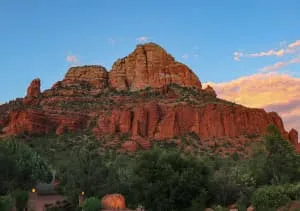
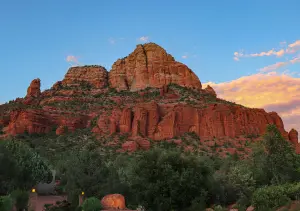
deploy: 07bdedab660cefaba6e4f6591fe39ad6d8403a99

diff --git a/catalog.html b/catalog.html
@@ -1,1 +1,1 @@
-<!DOCTYPE html><html class="page" lang="ru"><head><meta charset="utf-8"><meta name="viewport" content="width=device-width, initial-scale=1.0"><title>Sedona</title><link rel="stylesheet" href="styles/style.min.css"></head><body class="page__body"><div class="container"><header class="page-header"><a class="page-header__logo" href="index.html"> <img src="../images/logo.svg" width="139" height="70" alt="Логотип сайта Sedona"> </a><nav class="main-nav page-header__nav"><ul class="nav-list"><li class="nav-list__item"><a class="nav-list__link nav-list__link--current" href="index.html">Главная</a></li><li class="nav-list__item"><a class="nav-list__link" href="#!">О Седоне</a></li><li class="nav-list__item"><a class="nav-list__link">Гостиницы</a></li></ul><div class="page-header__links"><a class="link-search" href="#!"><span class="visually-hidden">Поиск</span></a> <a class="link-favorites" href="#!"><span class="visually-hidden">Избранное</span></a> <a class="button link-wish" href="#!">Хочу сюда</a></div></nav></header><main class="main-catalog"><h1 class="main-catalog__heading">Гостиницы Седоны</h1><ul class="bread-crumbs"><li></li><li><a class="bread-crumbs__link">Гостиницы</a></li></ul><form class="main-catalog__form" method="post" action="echo.htmlacademy.ru"><fieldset><legend class="main-catalog__legend">Инфраструктура:</legend><label><input type="checkbox" name="pool"> Бассейн</label> <label><input type="checkbox" name="parking"> Парковка</label> <label><input type="checkbox" name="wifi"> Wi-Fi</label></fieldset><fieldset><legend class="main-catalog__legend">Тип Жилья:</legend><input type="radio" name="housing"> Гостиница <input type="radio" name="housing"> Мотель <input type="radio" name="housing"> Апартаменты</fieldset><div class="price"></div><button type="submit">Применить</button> <button type="reset">Сбросить</button></form><section class="main-catalog__info"><h2 class="main-catalog__lead">Найдено гостиниц: 38</h2><select><option>Сначало дешевые</option></select><ul class="result-list"><li class="result-list__item"><img src="../images/hotel-1.jpg" width="300" height="211" alt="Гостиница Amara Resort &amp; Spa"><h3 class="result-list__heading">Amara Resort &amp; Spa</h3><span class="result-list__about">Гостиница</span> <span class="result-list__price">От 4000 ₽</span> <a class="result-list__more" href="#">Подробнее</a> <a class="result-list__favourite" href="#">В избранное</a> <span class="result-list__stars"></span> <span class="result-list__rating">Рейтинг: 8,5</span></li><li class="result-list__item"><img src="../images/hotel-2.jpg" width="300" height="211" alt="Гостиница Villas at Poco Diablo"><h3 class="result-list__heading">Villas at Poco Diablo</h3><span class="result-list__about">Гостиница</span> <span class="result-list__price">От 5000 ₽</span> <a class="result-list__more" href="#">Подробнее</a> <a class="result-list__favourite" href="#">В избранном</a> <span class="result-list__stars"></span> <span class="result-list__rating">Рейтинг: 9,2</span></li><li class="result-list__item"><img src="../images/hotel-3.jpg" width="300" height="211" alt="Гостиница Desert Quail Inn"><h3 class="result-list__heading">Desert Quail Inn</h3><span class="result-list__about">Гостиница</span> <span class="result-list__price">От 2500 ₽</span> <a class="result-list__more" href="#">Подробнее</a> <a class="result-list__favourite" href="#">В избранное</a> <span class="result-list__stars"></span> <span class="result-list__rating">Рейтинг: 6,9</span></li><li class="result-list__item"><img src="../images/hotel-4.jpg" width="300" height="211" alt="Гостиница GreenTree Inn"><h3 class="result-list__heading">GreenTree Inn</h3><span class="result-list__about">Гостиница</span> <span class="result-list__price">От 1500 ₽</span> <a class="result-list__more" href="#">Подробнее</a> <a class="result-list__favourite" href="#">В избранное</a> <span class="result-list__stars"></span> <span class="result-list__rating">Рейтинг: 5,0</span></li></ul><ul class="pagination-list"><li class="pagination-list__item"><a class="pagination-list__link" href="#">1</a></li><li class="pagination-list__item"><a class="pagination-list__link" href="#">2</a></li><li class="pagination-list__item"><a class="pagination-list__link" href="#">3</a></li><li class="pagination-list__item"><a class="pagination-list__link" href="#">4</a></li><li class="pagination-list__item"><a class="pagination-list__link" href="#">...</a></li><li class="pagination-list__item"><a class="pagination-list__link" href="#">10</a></li></ul><div class="pagination-choise"><p class="pagination-choise__text">Гостиниц на странице:</p><select><option>4</option></select></div></section></main><footer class="page-footer"><div class="page-footer__mailing"><b class="page-footer__lead">Подпишитесь на рассылку</b><p class="page-footer__text">Только полезная информация и никакого спама, честное бойскаутское!</p><form class="page-footer__form" method="post"><input type="text" placeholder="Ваш e-mail"> <button class="button" type="submit">Подписаться</button></form></div><ul class="page-footer__social-list"><li class="page-footer__social-item"><a class="page-footer__social-link" href="#!"><span class="visually-hidden">Vk</span></a></li><li class="page-footer__social-item"><a class="page-footer__social-link" href="#!"><span class="visually-hidden">Telegram</span></a></li><li class="page-footer__social-item"><a class="page-footer__social-link" href="#!"><span class="visually-hidden">Youtube</span></a></li></ul><a class="page-footer__phone" href="tel:+78128121212">+7 (812) 812-12-12</a> <a class="page-footer__copyright" href="#!">Разработано <img src="#" alt=""> </a></footer></div></body></html>
+<!DOCTYPE html><html lang="ru"><head><meta charset="utf-8"><meta name="viewport" content="width=device-width, initial-scale=1.0"><title>Sedona</title><link href="styles/main.css" rel="stylesheet"></head><body><div class="container page"><header class="page-header"><a class="page-header__logo" href="index.html"> <img src="images/logo.svg" alt="Логотип сайта Sedona" width="139" height="70"> </a><nav class="main-nav page-header__nav"><ul class="nav-list"><li class="nav-list__item"><a class="nav-list__link nav-list__link--current" href="index.html">Главная</a></li><li class="nav-list__item"><a class="nav-list__link" href="#!">О Седоне</a></li><li class="nav-list__item"><a class="nav-list__link">Гостиницы</a></li></ul><div class="page-header__links"><a class="link-search" href="#!"> <span class="visually-hidden">Поиск</span> </a> <a class="link-favorites" href="#!"><span class="visually-hidden">Избранное</span> </a><a class="button link-wish" href="#!">Хочу сюда</a></div></nav></header><main class="main-catalog"><h1 class="main-catalog__heading">Гостиницы Седоны</h1><ul class="bread-crumbs"><li></li><li><a class="bread-crumbs__link">Гостиницы</a></li></ul><form class="main-catalog__form" method="post" action="echo.htmlacademy.ru"><fieldset><legend class="main-catalog__legend">Инфраструктура:</legend><label><input name="pool" type="checkbox"> Бассейн</label> <label><input name="parking" type="checkbox"> Парковка</label> <label><input name="wifi" type="checkbox"> Wi-Fi</label></fieldset><fieldset><legend class="main-catalog__legend">Тип Жилья:</legend><input name="housing" type="radio"> Гостиница <input name="housing" type="radio"> Мотель <input name="housing" type="radio"> Апартаменты</fieldset><div class="price"></div><button type="submit">Применить</button> <button type="reset">Сбросить</button></form><section class="main-catalog__info"><h2 class="main-catalog__lead">Найдено гостиниц: 38</h2><select><option>Сначало дешевые</option></select><ul class="result-list"><li class="result-list__item"><img src="images/hotel-1.webp" alt="Гостиница Amara Resort &amp; Spa" width="300" height="211"><h3 class="result-list__heading">Amara Resort &amp; Spa</h3><span class="result-list__about">Гостиница</span> <span class="result-list__price">От 4000 ₽</span> <a class="result-list__more" href="#">Подробнее</a> <a class="result-list__favourite" href="#">В избранное</a> <span class="result-list__stars"></span> <span class="result-list__rating">Рейтинг: 8,5</span></li><li class="result-list__item"><img src="images/hotel-2.webp" alt="Гостиница Villas at Poco Diablo" width="300" height="211"><h3 class="result-list__heading">Villas at Poco Diablo</h3><span class="result-list__about">Гостиница</span> <span class="result-list__price">От 5000 ₽</span> <a class="result-list__more" href="#">Подробнее</a> <a class="result-list__favourite" href="#">В избранном</a> <span class="result-list__stars"></span> <span class="result-list__rating">Рейтинг: 9,2</span></li><li class="result-list__item"><img src="images/hotel-3.webp" alt="Гостиница Desert Quail Inn" width="300" height="211"><h3 class="result-list__heading">Desert Quail Inn</h3><span class="result-list__about">Гостиница</span> <span class="result-list__price">От 2500 ₽</span> <a class="result-list__more" href="#">Подробнее</a> <a class="result-list__favourite" href="#">В избранное</a> <span class="result-list__stars"></span> <span class="result-list__rating">Рейтинг: 6,9</span></li><li class="result-list__item"><img src="images/hotel-4.webp" alt="Гостиница GreenTree Inn" width="300" height="211"><h3 class="result-list__heading">GreenTree Inn</h3><span class="result-list__about">Гостиница</span> <span class="result-list__price">От 1500 ₽</span> <a class="result-list__more" href="#">Подробнее</a> <a class="result-list__favourite" href="#">В избранное</a> <span class="result-list__stars"></span> <span class="result-list__rating">Рейтинг: 5,0</span></li></ul><ul class="pagination-list"><li class="pagination-list__item"><a class="pagination-list__link" href="#">1</a></li><li class="pagination-list__item"><a class="pagination-list__link" href="#">2</a></li><li class="pagination-list__item"><a class="pagination-list__link" href="#">3</a></li><li class="pagination-list__item"><a class="pagination-list__link" href="#">4</a></li><li class="pagination-list__item"><a class="pagination-list__link" href="#">...</a></li><li class="pagination-list__item"><a class="pagination-list__link" href="#">10</a></li></ul><div class="pagination-choise"><p class="pagination-choise__text">Гостиниц на странице:</p><select><option>4</option></select></div></section></main><footer class="page__footer page-footer"><div class="page-footer__mailing"><b class="page-footer__lead">Подпишитесь на рассылку</b><p class="page-footer__text">Только полезная информация и никакого спама, честное бойскаутское!</p><form class="page-footer__form" method="post"><input type="text" placeholder="Ваш e-mail"> <button class="button" type="submit">Подписаться</button></form></div><ul class="page-footer__social-list"><li class="page-footer__social-item"><a class="page-footer__social-link" href="#!"> <span class="visually-hidden">Vk</span> </a></li><li class="page-footer__social-item"><a class="page-footer__social-link" href="#!"> <span class="visually-hidden">Telegram</span> </a></li><li class="page-footer__social-item"><a class="page-footer__social-link" href="#!"> <span class="visually-hidden">Youtube</span> </a></li></ul><a class="page-footer__phone" href="tel:+78128121212">+7 (812) 812-12-12</a> <a class="page-footer__copyright" href="#!">Разработано <img src="images/logo-htmlacademy.svg" alt=""> </a></footer></div><script src="scripts/main.js"></script></body></html>

diff --git a/index.html b/index.html
@@ -1,1 +1,1 @@
-<!DOCTYPE html><html class="page" lang="ru"><head><meta charset="utf-8"><meta name="viewport" content="width=device-width, initial-scale=1.0"><title>Sedona</title><link rel="stylesheet" href="styles/style.min.css"></head><body class="page__body"><div class="container"><header class="page-header"><a class="page-header__logo"> <img src="../images/logo.svg" width="139" height="70" alt="Логотип сайта Sedona"> </a><nav class="main-nav page-header__nav"><ul class="nav-list"><li class="nav-list__item"><a class="nav-list__link nav-list__link--current">Главная</a></li><li class="nav-list__item"><a class="nav-list__link" href="#!">О Седоне</a></li><li class="nav-list__item"><a class="nav-list__link" href="catalog.html">Гостиницы</a></li></ul><div class="page-header__links"><a class="link-search" href="#!"><span class="visually-hidden">Поиск</span></a> <a class="link-favorites" href="#!"><span class="visually-hidden">Избранное</span></a> <a class="button link-wish" href="#!">Хочу сюда</a></div></nav></header><main class="page-main"><h1 class="visually-hidden">Sedona</h1><p class="page-main__lead">Седона — небольшой городок в Аризоне, заслуживающий большего!</p><p class="page-main__features">Рассмотрим 5 причин, по которым Седона круче, чем Гранд-Каньон!</p><ul class="main-list"><li class="main-list__item"><div class="main-list__wrapper"><h2 class="main-list__heading">Настоящий городок</h2><span class="main-list__number">№ 1</span><p class="main-list__text">Седона — не аттракцион для туристов, там течёт своя жизнь</p></div><img src="../images/bar.jpg" width="800" height="384" alt="Кафе в Седоне"><ul class="feature-list"><li class="feature-list__item"><h3 class="feature-list__heading">Жильё</h3><p class="feature-list__text">Рекомендуем пожить в настоящем мотеле, всё как в кино!</p></li><li class="feature-list__item"><h3 class="feature-list__heading">Еда</h3><p class="feature-list__text">Всегда заказывайте топовый фирменный бургер, вы не разочаруетесь!</p></li><li class="feature-list__item"><h3 class="feature-list__heading">Сувениры</h3><p class="feature-list__text">Не только китайского, но и настоящего местного производства!</p></li></ul></li><li class="page-main__item"><div class="main-list__wrapper"><h2 class="main-list__heading">Там есть мост дьявола</h2><span class="main-list__number">№ 2</span><p class="main-list__text">Да, по нему можно пройти! Если вы осмелитесь, разумеется</p></div><img class="page-main__img" src="../images/canyon.jpg" width="800" height="384" alt="Каньен в Седоне"></li><li class="page-main__item"><h2 class="main-list__heading">Небольшая площадь</h2><span class="main-list__number">№ 3</span><p class="main-list__text">Все достопримечательности находятся очень близко</p></li><li class="page-main__item"><h2 class="main-list__heading">Красивая дорога</h2><span class="main-list__number">№ 4</span><p class="main-list__text">Ехать в Седону из Лас-Вегаса совсем не скучно!</p></li><li class="page-main__item"><h2 class="main-list__heading">Мало туристов</h2><span class="main-list__number">№ 5</span><p class="main-list__text">Большинство едет в Гранд Каньон и толпится там</p></li></ul><article class="page-main__search-hostel seacrh-block"><h2 class="visually-hidden">Поиск гостиницы.</h2><b class="seacrh-block__lead">Заинтересовались?</b><p class="seacrh-block__text">Укажите предполагаемые даты поездки, и мы покажем вам лучшие предложения гостиниц в Седоне</p><a class="button seacrh-block__link" href="#!">Поиск гостиницы в Седоне</a></article></main><footer class="page-footer"><div class="page-footer__mailing"><b class="page-footer__lead">Подпишитесь на рассылку</b><p class="page-footer__text">Только полезная информация и никакого спама, честное бойскаутское!</p><form class="page-footer__form" method="post"><input type="text" placeholder="Ваш e-mail"> <button class="button" type="submit">Подписаться</button></form></div><ul class="page-footer__social-list"><li class="page-footer__social-item"><a class="page-footer__social-link" href="#!"><span class="visually-hidden">Vk</span></a></li><li class="page-footer__social-item"><a class="page-footer__social-link" href="#!"><span class="visually-hidden">Telegram</span></a></li><li class="page-footer__social-item"><a class="page-footer__social-link" href="#!"><span class="visually-hidden">Youtube</span></a></li></ul><a class="page-footer__phone" href="tel:+78128121212">+7 (812) 812-12-12</a> <a class="page-footer__copyright" href="#!">Разработано <img src="#" alt=""> </a></footer></div></body></html>
+<!DOCTYPE html><html lang="ru"><head><meta charset="utf-8"><meta name="viewport" content="width=device-width, initial-scale=1.0"><title>Sedona</title><link href="styles/main.css" rel="stylesheet"></head><body><div class="container page"><header class="page-header"><a class="page-header__logo"> <img src="images/logo.svg" alt="Логотип сайта Sedona" width="139" height="70"> </a><nav class="main-nav page-header__nav"><ul class="nav-list"><li class="nav-list__item"><a class="nav-list__link nav-list__link--current">Главная</a></li><li class="nav-list__item"><a class="nav-list__link" href="#!">О Седоне</a></li><li class="nav-list__item"><a class="nav-list__link" href="catalog.html">Гостиницы</a></li></ul><div class="page-header__links"><a class="link-search" href="#!"> <span class="visually-hidden">Поиск</span> </a> <a class="link-favorites" href="#!"><span class="visually-hidden">Избранное</span> </a><a class="button link-wish" href="#!">Хочу сюда</a></div></nav></header><main class="page-main"><h1 class="visually-hidden">Sedona</h1><p class="page-main__lead">Седона — небольшой городок в Аризоне, заслуживающий большего!</p><p class="page-main__features">Рассмотрим 5 причин, по которым Седона круче, чем Гранд-Каньон!</p><ul class="main-list"><li class="main-list__item"><div class="main-list__wrapper"><h2 class="main-list__heading">Настоящий городок</h2><span class="main-list__number">№ 1</span><p class="main-list__text">Седона — не аттракцион для туристов, там течёт своя жизнь</p></div><img src="images/bar.webp" alt="Кафе в Седоне" width="800" height="384"><ul class="feature-list"><li class="feature-list__item"><h3 class="feature-list__heading">Жильё</h3><p class="feature-list__text">Рекомендуем пожить в настоящем мотеле, всё как в кино!</p></li><li class="feature-list__item"><h3 class="feature-list__heading">Еда</h3><p class="feature-list__text">Всегда заказывайте топовый фирменный бургер, вы не разочаруетесь!</p></li><li class="feature-list__item"><h3 class="feature-list__heading">Сувениры</h3><p class="feature-list__text">Не только китайского, но и настоящего местного производства!</p></li></ul></li><li class="page-main__item"><div class="main-list__wrapper"><h2 class="main-list__heading">Там есть мост дьявола</h2><span class="main-list__number">№ 2</span><p class="main-list__text">Да, по нему можно пройти! Если вы осмелитесь, разумеется</p></div><img class="page-main__img" src="images/canyon.webp" alt="Каньен в Седоне" width="800" height="384"></li><li class="page-main__item"><h2 class="main-list__heading">Небольшая площадь</h2><span class="main-list__number">№ 3</span><p class="main-list__text">Все достопримечательности находятся очень близко</p></li><li class="page-main__item"><h2 class="main-list__heading">Красивая дорога</h2><span class="main-list__number">№ 4</span><p class="main-list__text">Ехать в Седону из Лас-Вегаса совсем не скучно!</p></li><li class="page-main__item"><h2 class="main-list__heading">Мало туристов</h2><span class="main-list__number">№ 5</span><p class="main-list__text">Большинство едет в Гранд Каньон и толпится там</p></li></ul><article class="page-main__search search-block"><h2 class="visually-hidden">Поиск гостиницы.</h2><b class="search-block__lead">Заинтересовались?</b><p class="search-block__text">Укажите предполагаемые даты поездки, и мы покажем вам лучшие предложения гостиниц в Седоне</p><a class="button search-block__link" href="#!">Поиск гостиницы в Седоне</a></article></main><footer class="page__footer page-footer"><div class="page-footer__mailing"><b class="page-footer__lead">Подпишитесь на рассылку</b><p class="page-footer__text">Только полезная информация и никакого спама, честное бойскаутское!</p><form class="page-footer__form" method="post"><input type="text" placeholder="Ваш e-mail"> <button class="button" type="submit">Подписаться</button></form></div><ul class="page-footer__social-list"><li class="page-footer__social-item"><a class="page-footer__social-link" href="#!"> <span class="visually-hidden">Vk</span> </a></li><li class="page-footer__social-item"><a class="page-footer__social-link" href="#!"> <span class="visually-hidden">Telegram</span> </a></li><li class="page-footer__social-item"><a class="page-footer__social-link" href="#!"> <span class="visually-hidden">Youtube</span> </a></li></ul><a class="page-footer__phone" href="tel:+78128121212">+7 (812) 812-12-12</a> <a class="page-footer__copyright" href="#!">Разработано <img src="images/logo-htmlacademy.svg" alt=""> </a></footer></div><script src="scripts/main.js"></script></body></html>

diff --git a/404.html b/404.html
@@ -1,1 +1,1 @@
-<!DOCTYPE html><html class="page" lang="ru"><head><meta charset="utf-8"><meta name="viewport" content="width=device-width, initial-scale=1.0"><title>Sedona</title><link rel="stylesheet" href="styles/style.min.css"></head><body class="page__body"><div class="container"><header class="page-header"><a class="page-header__logo" href="index.html"> <img src="../images/logo.svg" width="139" height="70" alt="Логотип сайта Sedona"> </a><nav class="main-nav page-header__nav"><ul class="nav-list"><li class="nav-list__item"><a class="nav-list__link nav-list__link--current" href="index.html">Главная</a></li><li class="nav-list__item"><a class="nav-list__link" href="#!">О Седоне</a></li><li class="nav-list__item"><a class="nav-list__link" href="catalog.html">Гостиницы</a></li></ul><div class="page-header__links"><a class="link-search" href="#!"><span class="visually-hidden">Поиск</span></a> <a class="link-favorites" href="#!"><span class="visually-hidden">Избранное</span></a> <a class="button link-wish" href="#!">Хочу сюда</a></div></nav></header><p>Страница не найдена</p><footer class="page-footer"><div class="page-footer__mailing"><b class="page-footer__lead">Подпишитесь на рассылку</b><p class="page-footer__text">Только полезная информация и никакого спама, честное бойскаутское!</p><form class="page-footer__form" method="post"><input type="text" placeholder="Ваш e-mail"> <button class="button" type="submit">Подписаться</button></form></div><ul class="page-footer__social-list"><li class="page-footer__social-item"><a class="page-footer__social-link" href="#!"><span class="visually-hidden">Vk</span></a></li><li class="page-footer__social-item"><a class="page-footer__social-link" href="#!"><span class="visually-hidden">Telegram</span></a></li><li class="page-footer__social-item"><a class="page-footer__social-link" href="#!"><span class="visually-hidden">Youtube</span></a></li></ul><a class="page-footer__phone" href="tel:+78128121212">+7 (812) 812-12-12</a> <a class="page-footer__copyright" href="#!">Разработано <img src="#" alt=""> </a></footer></div></body></html>
+<!DOCTYPE html><html lang="ru"><head><meta charset="utf-8"><meta name="viewport" content="width=device-width, initial-scale=1.0"><title>Sedona</title><link href="styles/main.css" rel="stylesheet"></head><body><div class="container page"><header class="page-header"><a class="page-header__logo" href="index.html"> <img src="images/logo.svg" alt="Логотип сайта Sedona" width="139" height="70"> </a><nav class="main-nav page-header__nav"><ul class="nav-list"><li class="nav-list__item"><a class="nav-list__link nav-list__link--current" href="index.html">Главная</a></li><li class="nav-list__item"><a class="nav-list__link" href="#!">О Седоне</a></li><li class="nav-list__item"><a class="nav-list__link" href="catalog.html">Гостиницы</a></li></ul><div class="page-header__links"><a class="link-search" href="#!"> <span class="visually-hidden">Поиск</span> </a> <a class="link-favorites" href="#!"><span class="visually-hidden">Избранное</span> </a><a class="button link-wish" href="#!">Хочу сюда</a></div></nav></header><p>Страница не найдена</p><footer class="page__footer page-footer"><div class="page-footer__mailing"><b class="page-footer__lead">Подпишитесь на рассылку</b><p class="page-footer__text">Только полезная информация и никакого спама, честное бойскаутское!</p><form class="page-footer__form" method="post"><input type="text" placeholder="Ваш e-mail"> <button class="button" type="submit">Подписаться</button></form></div><ul class="page-footer__social-list"><li class="page-footer__social-item"><a class="page-footer__social-link" href="#!"> <span class="visually-hidden">Vk</span> </a></li><li class="page-footer__social-item"><a class="page-footer__social-link" href="#!"> <span class="visually-hidden">Telegram</span> </a></li><li class="page-footer__social-item"><a class="page-footer__social-link" href="#!"> <span class="visually-hidden">Youtube</span> </a></li></ul><a class="page-footer__phone" href="tel:+78128121212">+7 (812) 812-12-12</a> <a class="page-footer__copyright" href="#!">Разработано <img src="images/logo-htmlacademy.svg" alt=""> </a></footer></div><script src="scripts/main.js"></script></body></html>

diff --git a/styles/main.css b/styles/main.css
@@ -1,0 +1,1 @@
+.visually-hidden{position:fixed;transform:scale(0)}.container{width:1200px;margin-right:auto;margin-left:auto;padding:0 40px}@font-face{font-weight:400;font-style:normal;font-family:PT Sans;font-display:swap;src:local("PT Sans"),url(../fonts/ptsans-regular.woff2) format("woff2")}@font-face{font-weight:700;font-style:normal;font-family:PT Sans;font-display:swap;src:local("PT Sans"),url(../fonts/ptsans-bold.woff2) format("woff2")}body{min-width:1200px;min-width:320px;margin:0;font-size:22px;line-height:26px;font-family:PT Sans,Arial,sans-serif}img{display:block;max-width:100%;height:auto}a{color:inherit}:focus-visible{outline:2px solid;outline-offset:2px}@supports not selector(:focus-visible){:focus{outline:2px solid;outline-offset:2px}}.bread-crumbs{list-style-type:none}.bread-crumbs__link{font-size:16px;line-height:21px;color:#fff}.button{transition-property:color,background-color;transition-duration:.3s;transition-timing-function:ease-in-out;display:inline-block;vertical-align:baseline;box-sizing:border-box;padding:10px 30px;font-family:inherit;text-transform:uppercase;text-decoration:none;text-align:center;color:#fff;background-color:#756157;border-radius:4px;cursor:pointer}.feature-list{display:flex;margin:0;padding:0;list-style:none}.feature-list__item{width:400px}.feature-list__heading{font-weight:700;font-size:24px;line-height:28px;text-transform:uppercase;text-align:center;color:#000}.feature-list__text{font-size:18px;line-height:21px;text-align:center;color:#333}.link-favorites{position:relative;display:block;width:20px;height:20px}.link-favorites:before{content:"";position:absolute;top:0;left:0;width:19px;height:17px;background-image:url(../images/sprite.min.svg#favorite);background-repeat:no-repeat}.link-search{position:relative;display:block;width:43px;height:66px}.link-search:before{content:"";position:absolute;top:0;left:0;width:43px;height:66px;background-image:url(../images/sprite.min.svg#search);background-repeat:no-repeat}.link-wish{font-size:16px;line-height:20px;text-transform:uppercase;text-decoration:none;color:#fff}.main-catalog label{font-size:18px;line-height:21px}.main-catalog fieldset{border:none}.main-catalog__form{color:#fff}.main-catalog__heading{font-weight:700;font-size:60px;line-height:78px}.main-catalog__legend{font-size:20px;line-height:26px;text-transform:capitalize}.main-list{margin:90px 0 0;padding:0;list-style:none}.main-list__item{display:grid;grid-template-columns:400px 800px}.main-list__wrapper{background-color:#82b3d3}.main-list__heading{font-weight:700;font-size:24px;line-height:28px;text-transform:uppercase;text-align:center;color:#000}.main-list__number{color:#fff}.main-list__number,.main-list__text{font-size:18px;line-height:21px;text-align:center}.nav-list{display:flex;margin:0;padding:0}.nav-list__item{padding-right:35px;list-style:none;font-size:20px;line-height:26px}.nav-list__link{display:block;padding-top:20px;padding-bottom:18px;font-weight:700;font-size:20px;line-height:26px;text-transform:capitalize;text-decoration:none;color:#000}.nav-list__link--current{border-bottom:2px solid #756257}.page{display:flex;flex-direction:column;min-height:100vh}.page__footer{margin-top:auto}.page-footer__lead{font-weight:700;font-size:30px;line-height:36px;text-transform:uppercase}.page-footer__text{text-align:center}.page-footer__social-item{list-style:none}.page-footer__copyright,.page-footer__phone,.page-footer__social-link{text-decoration:none}.page-header{display:flex;padding:0 70px}.page-header__nav{display:flex;align-items:flex-start;margin-left:47px}.page-header__links{display:flex;justify-content:flex-end;align-items:center;width:300px;margin-left:auto}.page-main{background-image:url(../images/bg-index.jpg);background-repeat:no-repeat}.page-main__lead{width:630px;margin:0 auto 30px;padding-top:543px;font-weight:700;font-size:30px;line-height:36px;text-transform:uppercase;text-align:center}.page-main__features{margin:0;text-align:center;color:#333}.page-main__item{display:grid;grid-template-columns:800px 400px}.page-main__img{order:-1}.search-block__lead{font-weight:700;font-size:30px;line-height:36px;text-transform:uppercase;text-align:center}.search-block__text{text-align:center}

diff --git a/scripts/main.js b/scripts/main.js
@@ -1,0 +1,1 @@
+(()=>{})();

diff --git a/fonts/README.md b/fonts/README.md
@@ -1,0 +1,1 @@
+Каталог для шрифтов, не модифицируемых сборкой.
